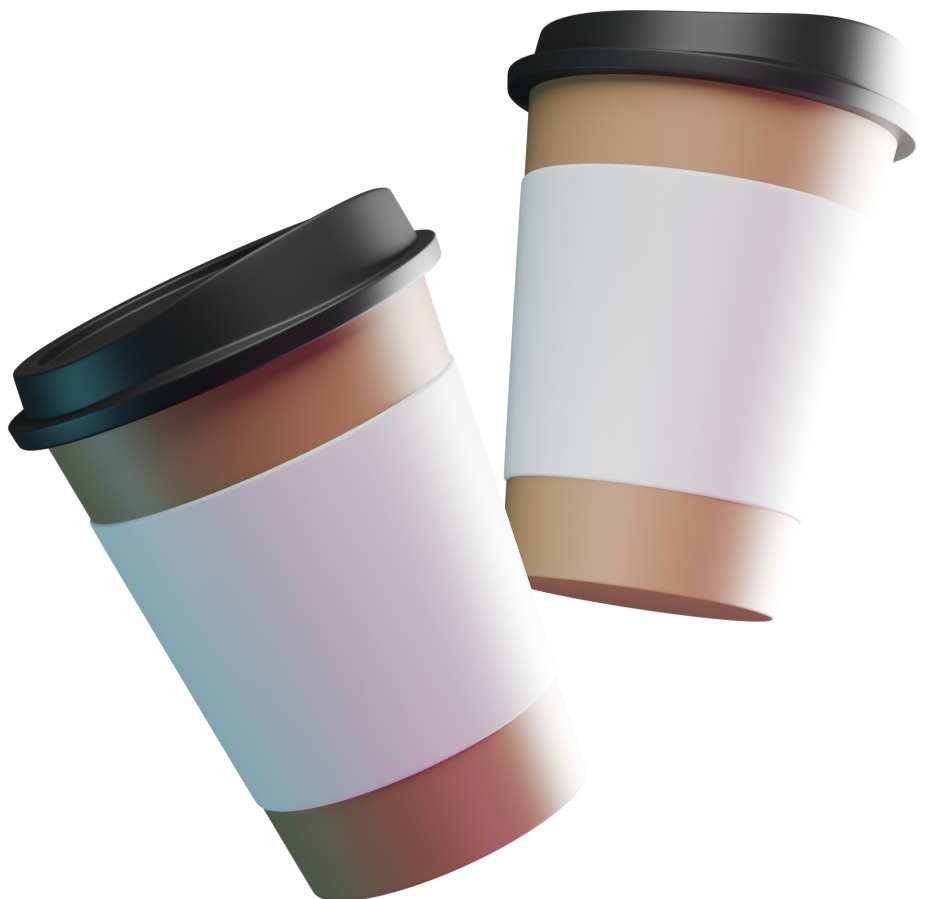
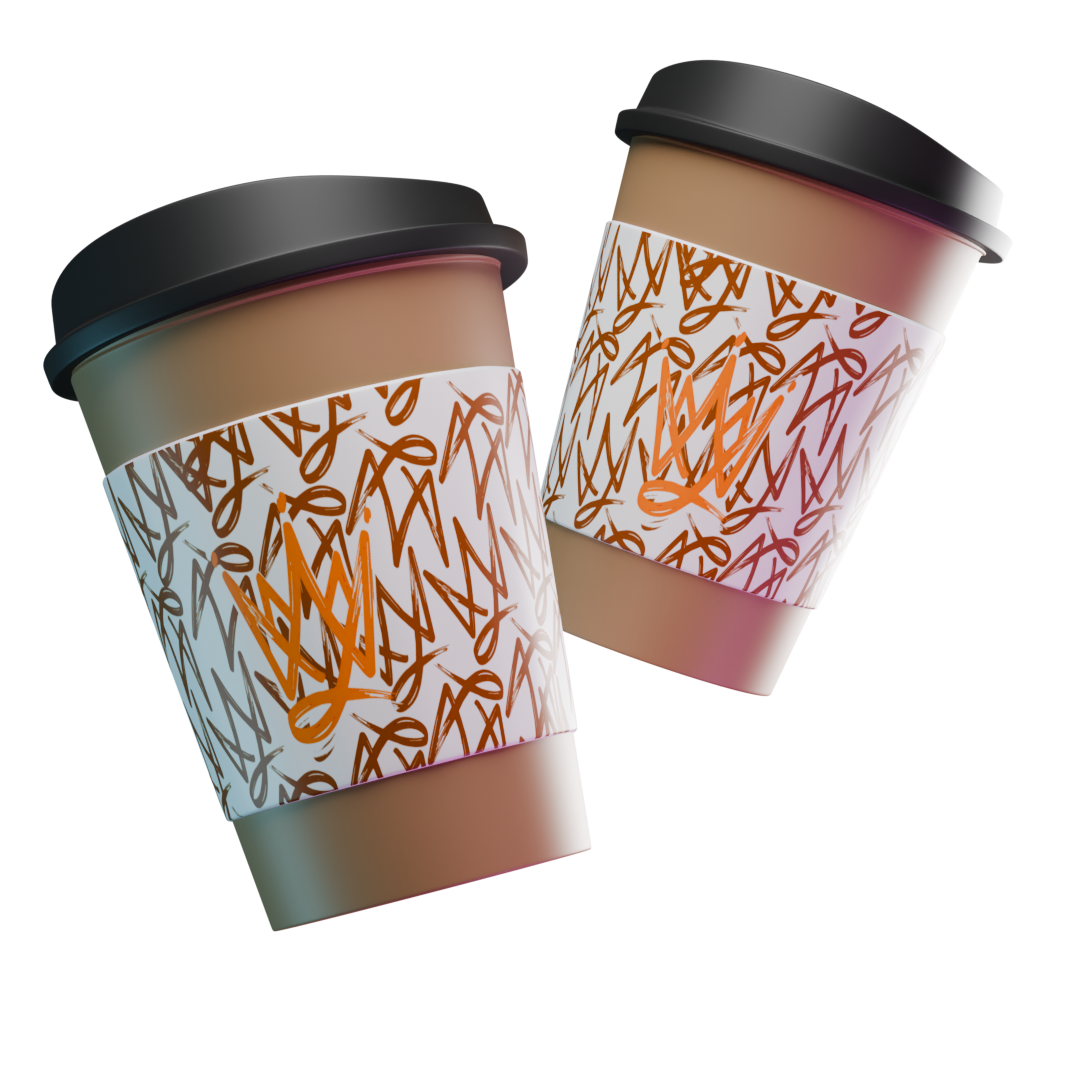
done

diff --git a/src/contact.tsx b/src/contact.tsx
@@ -1,4 +1,6 @@
 import React, { useState } from 'react';
+import image from './assets/send.png'
+
 
 function Contact() {
   const [name, setName] = useState('');
@@ -37,7 +39,7 @@ function Contact() {
             {/* Form card */}
             <form
               onSubmit={handleFormSubmit}
-              className="order-2 md:order-1 w-full border border-white rounded-3xl p-4 sm:p-5 flex flex-col gap-4"
+              className="order-2 md:order-2 w-full border border-white rounded-3xl p-4 sm:p-5 flex flex-col gap-4"
             >
               <input
                 type="text"
@@ -80,7 +82,7 @@ function Contact() {
               )}
             </form>
 
-            <div className="order-1 md:order-2">
+            <div className="order-1 md:order-1 mb-30 md:mb-120">
               <h1
                 className="text-center leading-none"
                 style={{
@@ -99,6 +101,11 @@ function Contact() {
                 <br />
                 ME
               </h1>
+              <img
+                src={image}
+                alt="send"
+                className="absolute top-20 sm:top-5 md:top-30 left-1/2 md:left-60 -translate-x-1/2 md:translate-x-0 z-10 w-40 h-40 sm:w-56 sm:h-56 md:w-80 md:h-80 object-contain drop-shadow-[0_0_20px_rgba(80,140,255,0.6)] animate-slide-fade-in-right"
+              />
             </div>
 
           </div>
